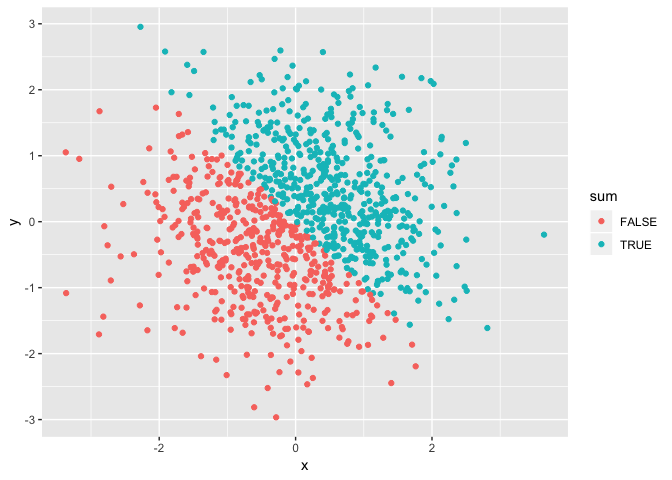
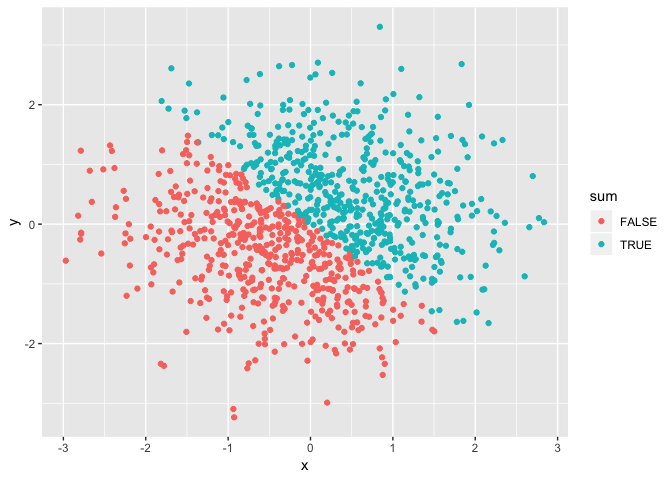
More edits for the homework. Fixing typos and removing extra commentary.

diff --git a/p8105_hw1_dk2759.md b/p8105_hw1_dk2759.md
@@ -31,12 +31,11 @@ variable_df = tibble(
   vec_char = c("A", "B", "C", "D", "E", "F", "G", "H", "I", "J"),
   vec_factor = factor(c("h", "e", "l", "l", "o", "w", "o", "r", "l", "d"))
 )
-
 ## Taking the means of each variable in dataframe
 mean(variable_df$vec_random)
-## [1] 1.586043
+## [1] 3.0696
 mean(variable_df$vec_logical)
-## [1] 0.3
+## [1] 0.7
 mean(variable_df$vec_char)
 ## Warning in mean.default(variable_df$vec_char): argument is not numeric or
 ## logical: returning NA
@@ -85,9 +84,9 @@ as.numeric(vec_fact_to_char)
 
 Converting characters to factors assigns each character a catergorical
 value, which then can be converted from a factor value to a numeric
-value. Going from factor to character removes the catergorical value
-(e.g. A = 1) and turns it into a character (A = “A”) which no longer can
-be turned into a numeric value.
+value. Going from factor to character removes the catergorical value and
+turns it into a character (A = “A”) which no longer can be turned into a
+numeric value.
 
 ### Problem 2
 
@@ -115,22 +114,16 @@ p2_df = tibble(
   num_sum = as.numeric(sum),
   fact_sum = as.factor(sum)
 )
-
-## should I name it sum or no name just use x + y > 0.
 ```
 
   - The above dataframe, “p2\_df” is 1000, 5
 
-  - The mean is 0.0386796 and the median is 0.0410082
-
-*?Do I need to round or trincate? How can I do this?*
+  - The mean is -0.0058258 and the median is 0.0110934
 
   - The proportion of cases for which the logical vector is `TRUE` is
-    54.1
+    51.2
 
-*I’m not sure if I should use the sum function here then devide by the
-nrow(df). `mean` works if we are taking the proportion of 0 and 1
-statements.*
+<!-- end list -->
 
 ``` r
 ## scatterplot of x and y
